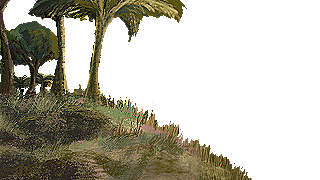
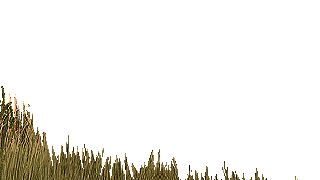
commit

diff --git a/scripts/phu_start.js b/scripts/phu_start.js
@@ -327,17 +327,16 @@ function judge_draw() {
         object4_c_h = answer[3];
         object4_c_w = answer[4];
 
-    } else if (judge(src_grass_ar[2], 1950, step4, 0, 180, 320) != null) {
+    }  else if (judge(src_climing_ar[0], 2050, step4, 0, 180, 320) != null) {
 
-
-        answer = judge(src_grass_ar[2], 1950, step4, 0, 180, 320);
-        //前回のポイントとは、必ず+640以上離れていないといけない
-        object4 = answer[0];
-        object4_h = answer[1];
-        object4_w = answer[2];
-        object4_c_h = answer[3];
-        object4_c_w = answer[4];
-
+            answer = judge(src_climing_ar[0], 2050, step4, 0, 180, 320);
+            //前回のポイントとは、必ず+640以上離れていないといけない
+            object4 = answer[0];
+            object4_h = answer[1];
+            object4_w = answer[2];
+            object4_c_h = answer[3];
+            object4_c_w = answer[4];
+        
     } else {
 
         answer = [];
@@ -389,8 +388,8 @@ function judge_draw() {
 
     }
 
-    if (judge(src_climing_ar[0], 2370, step4, 0, 180, 320) != null) {
-        answer = judge(src_climing_ar[0], 2370, step4, 0, 180, 320);
+    if (judge(src_climing_ar[1], 2370, step4, 0, 180, 320) != null) {
+        answer = judge(src_climing_ar[1], 2370, step4, 0, 180, 320);
         //前回のポイントとは、必ず+640以上離れていないといけない
         object4_2 = answer[0];
         object4_2_h = answer[1];
@@ -410,9 +409,9 @@ function judge_draw() {
 
     }
 
-    if (judge(src_climing_ar[1], 2690, step4, 0, 180, 320) != null) {
+    if (judge(src_climing_ar[2], 2690, step4, 0, 180, 320) != null) {
 
-        answer = judge(src_climing_ar[1], 2690, step4, 0, 180, 320);
+        answer = judge(src_climing_ar[2], 2690, step4, 0, 180, 320);
         //前回のポイントとは、必ず+640以上離れていないといけない
         object4_3 = answer[0];
         object4_3_h = answer[1];
@@ -433,6 +432,7 @@ function judge_draw() {
     }
 
 
+    /*
 
     if (-1350 + step6 > -320 && -1350 + step6 < 640) {
 
@@ -497,15 +497,16 @@ function judge_draw() {
         object6_3_c_w = (-150 + step6) - object6_3_w / 4
 
     } else {
+    */
         object6_3 = null;
-    }
+    /*}*/
 
     var lay
     lay = 600;
 
     //////////////////////////////
 
-    origin_object6(step6);
+    //origin_object6(step6);
     //mother(step6);
 
 

diff --git a/scripts/functions/stage_1_src_load.js b/scripts/functions/stage_1_src_load.js
@@ -115,7 +115,8 @@ var src_big_grass_np = [
 
 var src_climing_np = [
     'src/stage1_obj/climing0.png',
-    'src/stage1_obj/climing1.png'
+    'src/stage1_obj/climing1.png',
+    'src/stage1_obj/climing2.png'
 ]
 
 
